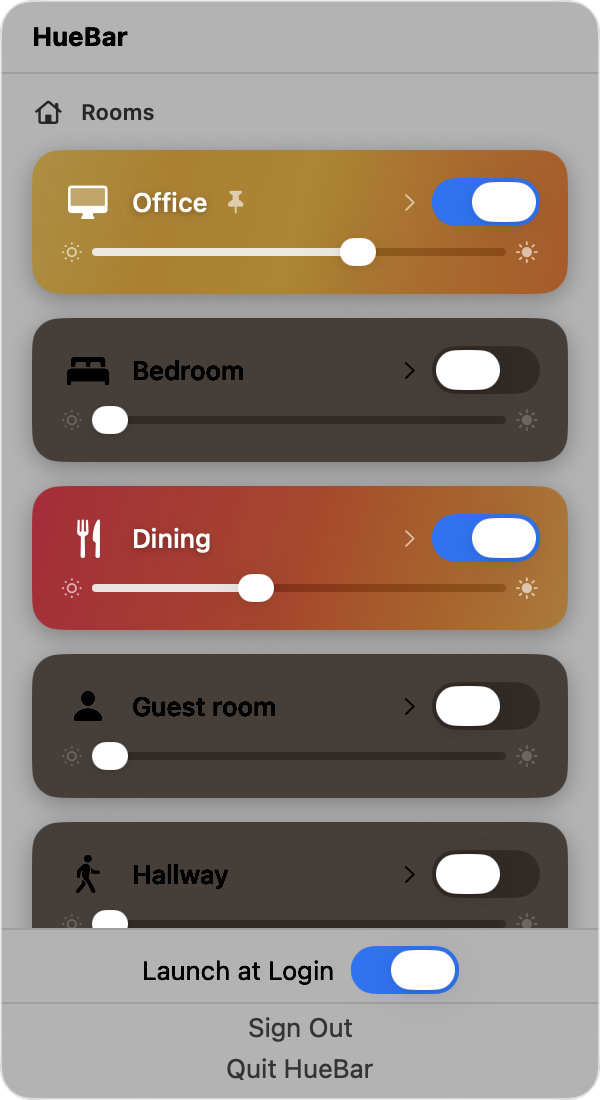
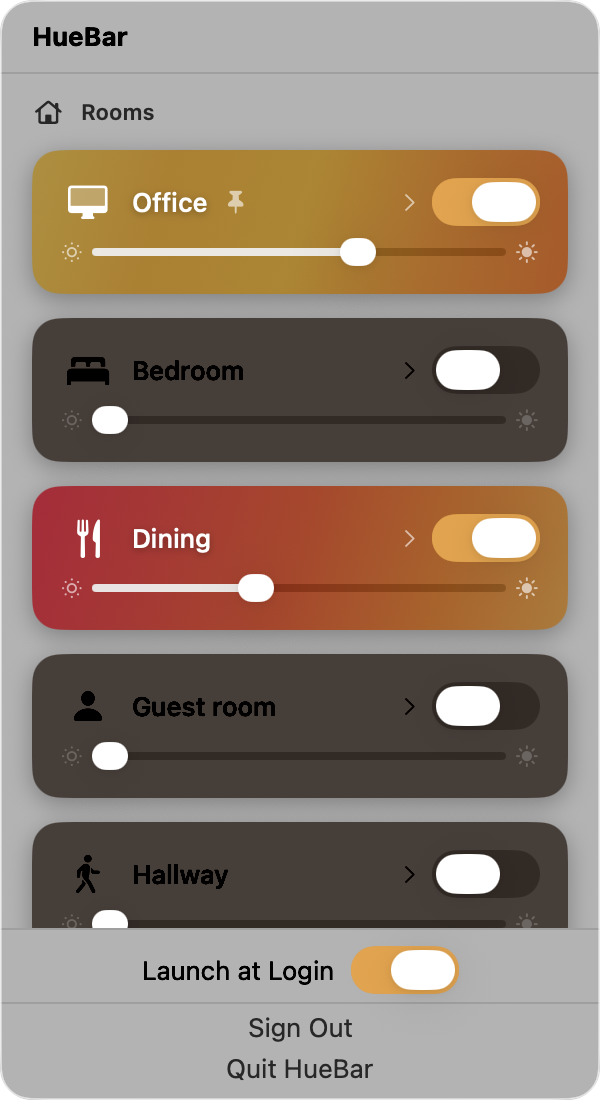
Warm amber accent color for toggles and sliders
Apply a warm amber tint globally for toggles and sliders to match
the lighting theme. Footer buttons use secondary style for contrast.

diff --git a/Sources/HueBar/Views/MenuBarView.swift b/Sources/HueBar/Views/MenuBarView.swift
@@ -39,6 +39,7 @@ struct MenuBarView: View {
         .frame(width: 300, height: 550)
         .clipped()
         .preferredColorScheme(.dark)
+        .tint(Color(red: 0.95, green: 0.65, blue: 0.25))
         .onAppear {
             Task { await apiClient.fetchAll(); apiClient.startEventStream() }
         }
@@ -131,10 +132,12 @@ struct MenuBarView: View {
 
                 Button("Sign Out", action: onSignOut)
                     .buttonStyle(.borderless)
+                    .foregroundStyle(.secondary)
                 Button("Quit HueBar") {
                     NSApplication.shared.terminate(nil)
                 }
                 .buttonStyle(.borderless)
+                .foregroundStyle(.secondary)
             }
             .padding(.vertical, 8)
         }

diff --git a/Sources/HueBar/Views/RoomDetailView.swift b/Sources/HueBar/Views/RoomDetailView.swift
@@ -74,6 +74,7 @@ struct RoomDetailView: View {
                         .foregroundStyle(.secondary)
                     Slider(value: $sliderBrightness, in: 1...100)
                         .controlSize(.small)
+                        .tint(Color(red: 0.95, green: 0.65, blue: 0.25))
                     Image(systemName: "sun.max.fill")
                         .font(.caption)
                         .foregroundStyle(.secondary)
